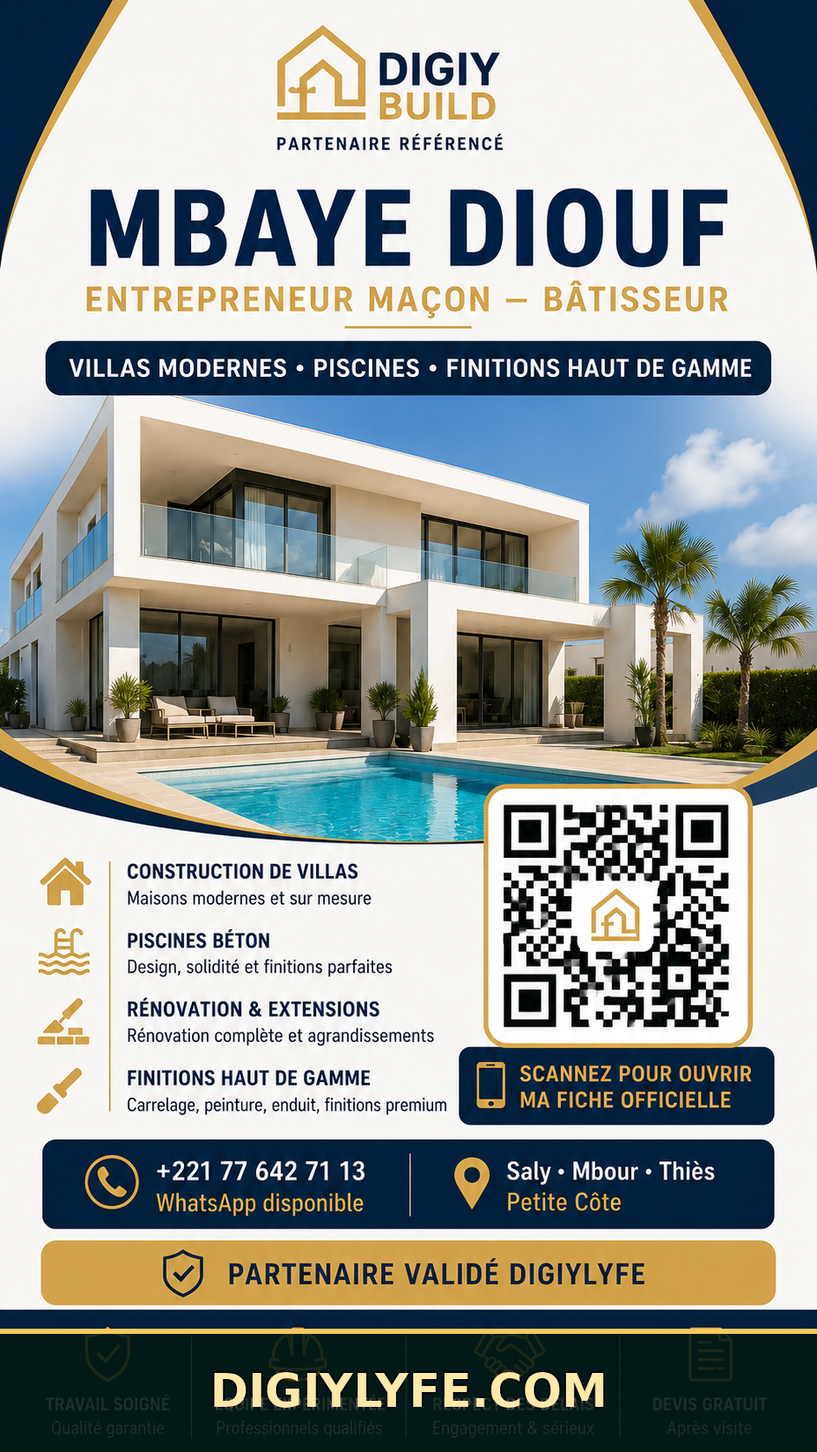
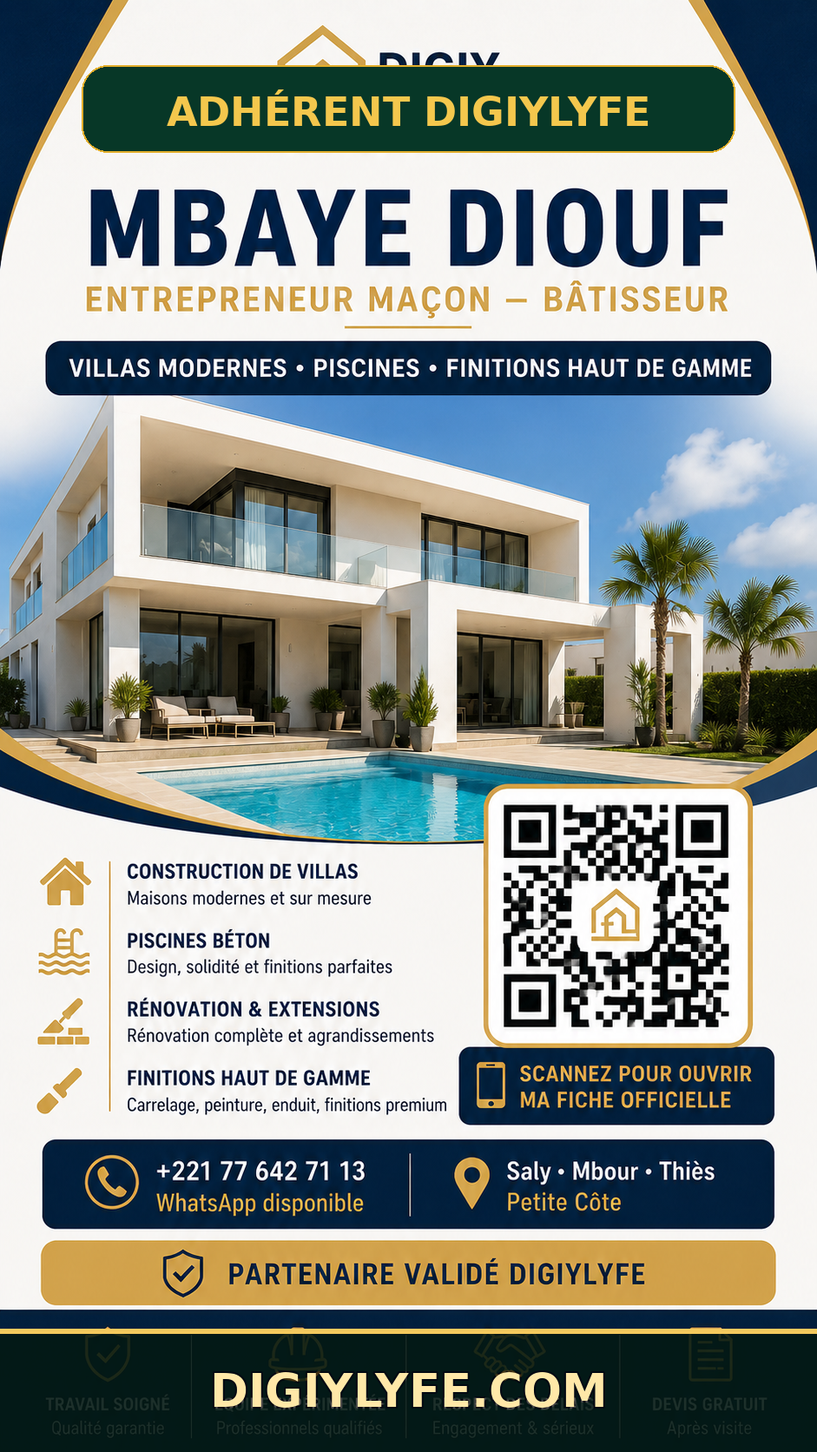
Mbaye : carte et index en statut adhérent
* Ajouter correction temporaire Mbaye adhérent

* Mbaye : adhérent DIGIYLYFE et wording neutre

* Ajouter nettoyage final wording Mbaye

* Mbaye : finir le wording adhérent multilingue

* Nettoyer workflow temporaire Mbaye

* Nettoyer workflow temporaire Mbaye

---------

Changed region(s): [[0.0925, 0.0311, 0.9245, 0.1244]]

diff --git a/index.html b/index.html
@@ -19,19 +19,19 @@
 <div class="wrap">
 <header class="topbar"><div class="brand"><div class="logo"><img alt="Logo DIGIYLYFE" src="https://digiylyfe.net/wp-content/uploads/2026/03/digiylyfe_logo_qr.jpeg"></div><div><div class="kicker" id="kicker"></div><div class="title">Mbaye Diouf</div><div class="sub" id="sub"></div></div></div><div class="lang"><button data-lang="fr">FR</button><button data-lang="en">EN</button><button data-lang="es">ES</button><button data-lang="de">DE</button><button data-lang="it">IT</button><button data-lang="nl">NL</button><button data-lang="ar">AR</button></div></header>
 <a class="mother" href="https://digiylyfe.com/" target="_blank" rel="noopener"><span id="motherLabel"></span><strong>DIGIYLYFE.COM</strong><em id="motherText"></em></a>
-<section class="hero"><main class="panel"><div class="poster"><img id="poster" alt="Mbaye Diouf" src="./carte-visite.png?v=20260714"></div><div class="body"><h1>Mbaye Diouf</h1><p class="lead" id="lead"></p><div class="chips" id="chips"></div><div class="official" id="official"></div><div class="text" id="mainText"></div><div class="serviceBox"><h2 id="servicesTitle"></h2><ul id="services"></ul></div></div></main><aside class="panel side"><article class="qrCard"><div id="qrKicker"></div><img class="qrImg" id="qrImg" alt="QR Mbaye Diouf"><div class="qrTitle" id="qrTitle"></div><div class="qrText" id="qrText"></div><div class="qrLink" id="qrLink"></div></article><div class="mini"><div class="miniLabel" id="tradeLabel"></div><div class="miniValue" id="tradeValue"></div><div class="miniHint" id="tradeHint"></div></div><div class="mini"><div class="miniLabel" id="zoneLabel"></div><div class="miniValue">Saly · Mbour · Thiès · Petite Côte</div><div class="miniHint" id="zoneHint"></div></div><div class="mini"><div class="miniLabel" id="priceLabel"></div><div class="miniValue" id="priceValue"></div><div class="miniHint" id="priceHint"></div></div><div class="actions"><a class="btn primary" id="waBtn"></a><a class="btn secondary" href="tel:+221776427113" id="callBtn"></a><a class="btn secondary" id="requestBtn"></a><button class="btn secondary" id="copyBtn"></button><button class="btn green" id="shareBtn"></button></div></aside></section>
+<section class="hero"><main class="panel"><div class="poster"><img id="poster" alt="Mbaye Diouf" src="./carte-visite.png?v=20260814-adherent"></div><div class="body"><h1>Mbaye Diouf</h1><p class="lead" id="lead"></p><div class="chips" id="chips"></div><div class="official" id="official"></div><div class="text" id="mainText"></div><div class="serviceBox"><h2 id="servicesTitle"></h2><ul id="services"></ul></div></div></main><aside class="panel side"><article class="qrCard"><div id="qrKicker"></div><img class="qrImg" id="qrImg" alt="QR Mbaye Diouf"><div class="qrTitle" id="qrTitle"></div><div class="qrText" id="qrText"></div><div class="qrLink" id="qrLink"></div></article><div class="mini"><div class="miniLabel" id="tradeLabel"></div><div class="miniValue" id="tradeValue"></div><div class="miniHint" id="tradeHint"></div></div><div class="mini"><div class="miniLabel" id="zoneLabel"></div><div class="miniValue">Saly · Mbour · Thiès · Petite Côte</div><div class="miniHint" id="zoneHint"></div></div><div class="mini"><div class="miniLabel" id="priceLabel"></div><div class="miniValue" id="priceValue"></div><div class="miniHint" id="priceHint"></div></div><div class="actions"><a class="btn primary" id="waBtn"></a><a class="btn secondary" href="tel:+221776427113" id="callBtn"></a><a class="btn secondary" id="requestBtn"></a><button class="btn secondary" id="copyBtn"></button><button class="btn green" id="shareBtn"></button></div></aside></section>
 <div class="foot" id="foot"></div></div>
 <nav class="bottom"><div class="bottomIn"><a id="galleryLink"><span>←</span><span id="galleryText"></span></a><a class="active" href="#"><span>📲</span><span>QR</span></a><a id="bottomWa"><span>💬</span><span>WhatsApp</span></a><button id="bottomShare"><span>📤</span><span id="shareBottom"></span></button></div></nav><div class="toast" id="toast"></div>
 <script>
 (function(){'use strict';const PHONE='221776427113',BASE='https://mbaye-macon.digiylyfe.com/';
 const P={
-fr:{kicker:'Je propose mes services',sub:'Entrepreneur maçon · Saly · Mbour · Thiès',motherLabel:'Marque mère officielle',motherText:'La route digitale entre le client et le professionnel local.',lead:'Bâtisseur · villas modernes · piscines béton · rénovation · finitions haut de gamme',chips:['Contact direct','QR officiel DIGIY','0% commission','Maçon','Bâtisseur','Villa','Piscine','Rénovation','Finitions','Petite Côte'],official:'<strong>QR officiel DIGIYLYFE · Fiche pro terrain</strong><br>Contact direct, demande directe, devis direct : le client parle au professionnel sans intermédiaire.',main:'Construction de villas, piscines béton, finitions haut de gamme, rénovation et extensions. Le client voit le métier, la zone et le contact direct.',servicesTitle:'Services utiles',services:['Construction de villas et petits chantiers de bâtiment.','Piscines béton, extensions, rénovation et aménagements.','Finitions : carrelage, peinture, menuiserie et détails.','Devis après visite selon plans, surfaces, matériaux et délais.'],qrKicker:'📲 QR officiel DIGIYLYFE',qrTitle:'Scanne la fiche officielle',qrText:'Ce QR ouvre directement la fiche DIGIY BUILD de Mbaye Diouf : lecture, partage, contact direct et visibilité terrain.',tradeLabel:'Métier',tradeValue:'Entrepreneur maçon',tradeHint:'Construction, rénovation, extensions, piscines béton et finitions.',zoneLabel:'Zone',zoneHint:'Intervention selon disponibilité, visite et besoin du client.',priceLabel:'Prix',priceValue:'Sur devis',priceHint:'Le prix dépend de la visite, des plans, des surfaces et des matériaux.',waBtn:'💬 WhatsApp direct',call:'📞 Appeler',request:'📄 Décrire mon besoin',copy:'📋 Copier la fiche',share:'📤 Partager',gallery:'Galerie',copied:'Lien copié',prompt:'Copie le lien :',shareText:'Entrepreneur maçon · fiche officielle DIGIYLYFE · contact direct · 0% commission.',wa:'Bonjour Mbaye, je viens de votre fiche officielle DIGIYLYFE pour un projet de construction ou de rénovation.',foot:'DIGIY BUILD • fiche officielle • QR DIGIY • métier clair • contact direct • devis direct • 0% commission'},
-en:{kicker:'I offer my services',sub:'Masonry contractor · Saly · Mbour · Thiès',motherLabel:'Official mother brand',motherText:'The digital route between the client and the local professional.',lead:'Builder · modern villas · concrete pools · renovation · premium finishes',chips:['Direct contact','Official DIGIY QR','0% commission','Masonry','Builder','Villa','Pool','Renovation','Finishes','Petite Côte'],official:'<strong>Official DIGIYLYFE QR · Field pro profile</strong><br>Direct contact, direct request and direct quote: the client speaks to the professional without an intermediary.',main:'Villa construction, concrete pools, premium finishes, renovation and extensions. The client sees the trade, area and direct contact.',servicesTitle:'Useful services',services:['Villa construction and small building projects.','Concrete pools, extensions, renovation and improvements.','Finishes: tiling, painting, carpentry and details.','Quote after a visit according to plans, surfaces, materials and deadlines.'],qrKicker:'📲 Official DIGIYLYFE QR',qrTitle:'Scan the official profile',qrText:'This QR directly opens Mbaye Diouf’s DIGIY BUILD profile: reading, sharing, direct contact and field visibility.',tradeLabel:'Trade',tradeValue:'Masonry contractor',tradeHint:'Construction, renovation, extensions, concrete pools and finishes.',zoneLabel:'Area',zoneHint:'Work according to availability, visit and client need.',priceLabel:'Price',priceValue:'Quote-based',priceHint:'The price depends on the visit, plans, surfaces and materials.',waBtn:'💬 Direct WhatsApp',call:'📞 Call',request:'📄 Describe my need',copy:'📋 Copy profile',share:'📤 Share',gallery:'Gallery',copied:'Link copied',prompt:'Copy this link:',shareText:'Masonry contractor · official DIGIYLYFE profile · direct contact · 0% commission.',wa:'Hello Mbaye, I am coming from your official DIGIYLYFE profile for a construction or renovation project.',foot:'DIGIY BUILD • official profile • DIGIY QR • clear trade • direct contact • direct quote • 0% commission'},
-es:{kicker:'Ofrezco mis servicios',sub:'Contratista de albañilería · Saly · Mbour · Thiès',motherLabel:'Marca matriz oficial',motherText:'La ruta digital entre el cliente y el profesional local.',lead:'Constructor · villas modernas · piscinas de hormigón · renovación · acabados de calidad',chips:['Contacto directo','QR oficial DIGIY','0% comisión','Albañilería','Constructor','Villa','Piscina','Renovación','Acabados','Petite Côte'],official:'<strong>QR oficial DIGIYLYFE · Ficha profesional</strong><br>Contacto, solicitud y presupuesto directos: el cliente habla con el profesional sin intermediario.',main:'Construcción de villas, piscinas de hormigón, acabados, renovación y ampliaciones. El cliente ve el oficio, la zona y el contacto directo.',servicesTitle:'Servicios útiles',services:['Construcción de villas y pequeñas obras.','Piscinas de hormigón, ampliaciones, renovación y mejoras.','Acabados: azulejos, pintura, carpintería y detalles.','Presupuesto después de visita según planos, superficies, materiales y plazos.'],qrKicker:'📲 QR oficial DIGIYLYFE',qrTitle:'Escanea la ficha oficial',qrText:'Este QR abre directamente la ficha DIGIY BUILD de Mbaye Diouf: lectura, difusión, contacto directo y visibilidad.',tradeLabel:'Oficio',tradeValue:'Contratista de albañilería',tradeHint:'Construcción, renovación, ampliaciones, piscinas de hormigón y acabados.',zoneLabel:'Zona',zoneHint:'Intervención según disponibilidad, visita y necesidad.',priceLabel:'Precio',priceValue:'Presupuesto personalizado',priceHint:'El precio depende de la visita, planos, superficies y materiales.',waBtn:'💬 WhatsApp directo',call:'📞 Llamar',request:'📄 Describir mi necesidad',copy:'📋 Copiar ficha',share:'📤 Compartir',gallery:'Galería',copied:'Enlace copiado',prompt:'Copia este enlace:',shareText:'Contratista de albañilería · ficha oficial DIGIYLYFE · contacto directo · 0% comisión.',wa:'Hola Mbaye, vengo de su ficha oficial DIGIYLYFE por un proyecto de construcción o renovación.',foot:'DIGIY BUILD • ficha oficial • QR DIGIY • oficio claro • contacto directo • presupuesto directo • 0% comisión'},
-de:{kicker:'Ich biete meine Dienste an',sub:'Maurerunternehmer · Saly · Mbour · Thiès',motherLabel:'Offizielle Dachmarke',motherText:'Der digitale Weg zwischen Kunde und lokalem Fachmann.',lead:'Bauunternehmer · moderne Villen · Betonpools · Renovierung · hochwertige Ausführung',chips:['Direkter Kontakt','Offizieller DIGIY-QR','0% Provision','Maurer','Bauunternehmer','Villa','Pool','Renovierung','Ausbau','Petite Côte'],official:'<strong>Offizieller DIGIYLYFE-QR · Fachprofil</strong><br>Direkter Kontakt, direkte Anfrage und direktes Angebot: der Kunde spricht ohne Vermittler mit dem Fachmann.',main:'Bau von Villen, Betonpools, hochwertiger Ausbau, Renovierung und Erweiterungen. Der Kunde sieht Handwerk, Gebiet und direkten Kontakt.',servicesTitle:'Nützliche Leistungen',services:['Villenbau und kleinere Bauprojekte.','Betonpools, Erweiterungen, Renovierung und Ausbau.','Ausführung: Fliesen, Malerarbeiten, Holzarbeiten und Details.','Angebot nach Besichtigung gemäß Plänen, Flächen, Materialien und Fristen.'],qrKicker:'📲 Offizieller DIGIYLYFE-QR',qrTitle:'Offizielles Profil scannen',qrText:'Dieser QR öffnet direkt Mbaye Dioufs DIGIY-BUILD-Profil: Lesen, Teilen, direkter Kontakt und Sichtbarkeit.',tradeLabel:'Handwerk',tradeValue:'Maurerunternehmer',tradeHint:'Bau, Renovierung, Erweiterungen, Betonpools und Ausbau.',zoneLabel:'Gebiet',zoneHint:'Einsatz nach Verfügbarkeit, Besichtigung und Kundenbedarf.',priceLabel:'Preis',priceValue:'Nach Angebot',priceHint:'Der Preis hängt von Besichtigung, Plänen, Flächen und Materialien ab.',waBtn:'💬 Direktes WhatsApp',call:'📞 Anrufen',request:'📄 Bedarf beschreiben',copy:'📋 Profil kopieren',share:'📤 Teilen',gallery:'Galerie',copied:'Link kopiert',prompt:'Diesen Link kopieren:',shareText:'Maurerunternehmer · offizielles DIGIYLYFE-Profil · direkter Kontakt · 0% Provision.',wa:'Hallo Mbaye, ich komme über Ihr offizielles DIGIYLYFE-Profil wegen eines Bau- oder Renovierungsprojekts.',foot:'DIGIY BUILD • offizielles Profil • DIGIY-QR • klares Handwerk • direkter Kontakt • direktes Angebot • 0% Provision'},
-it:{kicker:'Propongo i miei servizi',sub:'Impresa edile · Saly · Mbour · Thiès',motherLabel:'Marchio madre ufficiale',motherText:'La via digitale tra il cliente e il professionista locale.',lead:'Costruttore · ville moderne · piscine in cemento · ristrutturazione · finiture pregiate',chips:['Contatto diretto','QR ufficiale DIGIY','0% commissione','Muratura','Costruttore','Villa','Piscina','Ristrutturazione','Finiture','Petite Côte'],official:'<strong>QR ufficiale DIGIYLYFE · Scheda professionale</strong><br>Contatto, richiesta e preventivo diretti: il cliente parla con il professionista senza intermediari.',main:'Costruzione di ville, piscine in cemento, finiture pregiate, ristrutturazioni e ampliamenti. Il cliente vede mestiere, zona e contatto diretto.',servicesTitle:'Servizi utili',services:['Costruzione di ville e piccoli cantieri.','Piscine in cemento, ampliamenti, ristrutturazione e sistemazioni.','Finiture: piastrelle, pittura, falegnameria e dettagli.','Preventivo dopo sopralluogo secondo progetti, superfici, materiali e tempi.'],qrKicker:'📲 QR ufficiale DIGIYLYFE',qrTitle:'Scansiona la scheda ufficiale',qrText:'Questo QR apre direttamente la scheda DIGIY BUILD di Mbaye Diouf: lettura, condivisione, contatto e visibilità.',tradeLabel:'Mestiere',tradeValue:'Impresa edile',tradeHint:'Costruzione, ristrutturazione, ampliamenti, piscine in cemento e finiture.',zoneLabel:'Zona',zoneHint:'Intervento secondo disponibilità, sopralluogo e bisogno.',priceLabel:'Prezzo',priceValue:'Su preventivo',priceHint:'Il prezzo dipende da sopralluogo, progetti, superfici e materiali.',waBtn:'💬 WhatsApp diretto',call:'📞 Chiama',request:'📄 Descrivi il bisogno',copy:'📋 Copia scheda',share:'📤 Condividi',gallery:'Galleria',copied:'Link copiato',prompt:'Copia questo link:',shareText:'Impresa edile · scheda ufficiale DIGIYLYFE · contatto diretto · 0% commissione.',wa:'Ciao Mbaye, arrivo dalla sua scheda ufficiale DIGIYLYFE per un progetto di costruzione o ristrutturazione.',foot:'DIGIY BUILD • scheda ufficiale • QR DIGIY • mestiere chiaro • contatto diretto • preventivo diretto • 0% commissione'},
-nl:{kicker:'Ik bied mijn diensten aan',sub:'Aannemer metselwerk · Saly · Mbour · Thiès',motherLabel:'Officieel moedermerk',motherText:'De digitale route tussen klant en lokale professional.',lead:'Bouwer · moderne villa’s · betonnen zwembaden · renovatie · hoogwaardige afwerking',chips:['Direct contact','Officiële DIGIY-QR','0% commissie','Metselwerk','Bouwer','Villa','Zwembad','Renovatie','Afwerking','Petite Côte'],official:'<strong>Officiële DIGIYLYFE-QR · Vakprofiel</strong><br>Direct contact, directe aanvraag en directe offerte: de klant spreekt zonder tussenpersoon met de vakman.',main:'Bouw van villa’s, betonnen zwembaden, hoogwaardige afwerking, renovatie en uitbreidingen. De klant ziet vak, zone en direct contact.',servicesTitle:'Nuttige diensten',services:['Bouw van villa’s en kleinere bouwprojecten.','Betonnen zwembaden, uitbreidingen, renovatie en inrichting.','Afwerking: tegels, schilderwerk, timmerwerk en details.','Offerte na bezoek volgens plannen, oppervlakken, materialen en termijnen.'],qrKicker:'📲 Officiële DIGIYLYFE-QR',qrTitle:'Scan het officiële profiel',qrText:'Deze QR opent direct het DIGIY BUILD-profiel van Mbaye Diouf: lezen, delen, direct contact en zichtbaarheid.',tradeLabel:'Vak',tradeValue:'Aannemer metselwerk',tradeHint:'Bouw, renovatie, uitbreidingen, betonnen zwembaden en afwerking.',zoneLabel:'Zone',zoneHint:'Werk volgens beschikbaarheid, bezoek en klantbehoefte.',priceLabel:'Prijs',priceValue:'Op offerte',priceHint:'De prijs hangt af van bezoek, plannen, oppervlakken en materialen.',waBtn:'💬 Direct WhatsApp',call:'📞 Bellen',request:'📄 Mijn behoefte beschrijven',copy:'📋 Profiel kopiëren',share:'📤 Delen',gallery:'Galerij',copied:'Link gekopieerd',prompt:'Kopieer deze link:',shareText:'Aannemer metselwerk · officieel DIGIYLYFE-profiel · direct contact · 0% commissie.',wa:'Hallo Mbaye, ik kom via uw officiële DIGIYLYFE-profiel voor een bouw- of renovatieproject.',foot:'DIGIY BUILD • officieel profiel • DIGIY-QR • duidelijk vak • direct contact • directe offerte • 0% commissie'},
-ar:{kicker:'أقدم خدماتي',sub:'مقاول بناء · سالي · مبور · تييس',motherLabel:'العلامة الأم الرسمية',motherText:'المسار الرقمي بين العميل والمهني المحلي.',lead:'بنّاء · فلل حديثة · مسابح خرسانية · تجديد · تشطيبات عالية الجودة',chips:['تواصل مباشر','رمز DIGIY رسمي','عمولة صفر','بناء','مقاول','فيلا','مسبح','تجديد','تشطيبات','الساحل الصغير'],official:'<strong>رمز QR رسمي من DIGIYLYFE · ملف مهني</strong><br>تواصل وطلب وعرض سعر مباشر: يتحدث العميل مع المهني بلا وسيط.',main:'بناء الفلل والمسابح الخرسانية والتشطيبات الراقية والتجديد والتوسعات. يرى العميل المهنة والمنطقة والتواصل المباشر.',servicesTitle:'خدمات مفيدة',services:['بناء الفلل ومشاريع البناء الصغيرة.','مسابح خرسانية وتوسعات وتجديد وتهيئة.','تشطيبات: بلاط ودهان ونجارة وتفاصيل الورشة.','عرض سعر بعد المعاينة حسب المخططات والمساحات والمواد والآجال.'],qrKicker:'📲 رمز QR رسمي من DIGIYLYFE',qrTitle:'امسح الملف الرسمي',qrText:'يفتح هذا الرمز ملف Mbaye Diouf على DIGIY BUILD مباشرة: قراءة ومشاركة وتواصل وظهور ميداني.',tradeLabel:'المهنة',tradeValue:'مقاول بناء',tradeHint:'بناء وتجديد وتوسعات ومسابح خرسانية وتشطيبات.',zoneLabel:'المنطقة',zoneHint:'التدخل حسب التوفر والمعاينة وحاجة العميل.',priceLabel:'السعر',priceValue:'حسب عرض السعر',priceHint:'يعتمد السعر على المعاينة والمخططات والمساحات والمواد.',waBtn:'💬 واتساب مباشر',call:'📞 اتصال',request:'📄 وصف حاجتي',copy:'📋 نسخ الملف',share:'📤 مشاركة',gallery:'المعرض',copied:'تم نسخ الرابط',prompt:'انسخ هذا الرابط:',shareText:'مقاول بناء · ملف DIGIYLYFE رسمي · تواصل مباشر · عمولة صفر.',wa:'مرحباً Mbaye، وصلت من ملفك الرسمي على DIGIYLYFE ولدي مشروع بناء أو تجديد.',foot:'DIGIY BUILD • ملف رسمي • رمز DIGIY • مهنة واضحة • تواصل مباشر • عرض سعر مباشر • عمولة صفر'}
+fr:{kicker:'Je propose mes services',sub:'Entrepreneur maçon · Saly · Mbour · Thiès',motherLabel:'ADHÉRENT DIGIYLYFE',motherText:'La route digitale entre le client et le professionnel local.',lead:'Bâtisseur · villas modernes · piscines béton · rénovation · finitions haut de gamme',chips:['Contact direct','QR DIGIY','0% commission','Maçon','Bâtisseur','Villa','Piscine','Rénovation','Finitions','Petite Côte'],official:'<strong>ADHÉRENT DIGIYLYFE · Fiche pro terrain</strong><br>Contact direct, demande directe, devis direct : le client parle au professionnel sans intermédiaire.',main:'Construction de villas, piscines béton, finitions haut de gamme, rénovation et extensions. Le client voit le métier, la zone et le contact direct.',servicesTitle:'Services utiles',services:['Construction de villas et petits chantiers de bâtiment.','Piscines béton, extensions, rénovation et aménagements.','Finitions : carrelage, peinture, menuiserie et détails.','Devis après visite selon plans, surfaces, matériaux et délais.'],qrKicker:'📲 QR DIGIYLYFE',qrTitle:'Scanne la fiche DIGIYLYFE',qrText:'Ce QR ouvre directement la fiche DIGIY BUILD de Mbaye Diouf : lecture, partage, contact direct et visibilité terrain.',tradeLabel:'Métier',tradeValue:'Entrepreneur maçon',tradeHint:'Construction, rénovation, extensions, piscines béton et finitions.',zoneLabel:'Zone',zoneHint:'Intervention selon disponibilité, visite et besoin du client.',priceLabel:'Prix',priceValue:'Sur devis',priceHint:'Le prix dépend de la visite, des plans, des surfaces et des matériaux.',waBtn:'💬 WhatsApp direct',call:'📞 Appeler',request:'📄 Décrire mon besoin',copy:'📋 Copier la fiche',share:'📤 Partager',gallery:'Galerie',copied:'Lien copié',prompt:'Copie le lien :',shareText:'Entrepreneur maçon · fiche DIGIYLYFE · contact direct · 0% commission.',wa:'Bonjour Mbaye, je viens de votre fiche DIGIYLYFE pour un projet de construction ou de rénovation.',foot:'DIGIY BUILD • fiche DIGIYLYFE • QR DIGIY • métier clair • contact direct • devis direct • 0% commission'},
+en:{kicker:'I offer my services',sub:'Masonry contractor · Saly · Mbour · Thiès',motherLabel:'DIGIYLYFE MEMBER',motherText:'The digital route between the client and the local professional.',lead:'Builder · modern villas · concrete pools · renovation · premium finishes',chips:['Direct contact','DIGIY QR','0% commission','Masonry','Builder','Villa','Pool','Renovation','Finishes','Petite Côte'],official:'<strong>DIGIYLYFE MEMBER · Field pro profile</strong><br>Direct contact, direct request and direct quote: the client speaks to the professional without an intermediary.',main:'Villa construction, concrete pools, premium finishes, renovation and extensions. The client sees the trade, area and direct contact.',servicesTitle:'Useful services',services:['Villa construction and small building projects.','Concrete pools, extensions, renovation and improvements.','Finishes: tiling, painting, carpentry and details.','Quote after a visit according to plans, surfaces, materials and deadlines.'],qrKicker:'📲 DIGIYLYFE QR',qrTitle:'Scan the DIGIYLYFE profile',qrText:'This QR directly opens Mbaye Diouf’s DIGIY BUILD profile: reading, sharing, direct contact and field visibility.',tradeLabel:'Trade',tradeValue:'Masonry contractor',tradeHint:'Construction, renovation, extensions, concrete pools and finishes.',zoneLabel:'Area',zoneHint:'Work according to availability, visit and client need.',priceLabel:'Price',priceValue:'Quote-based',priceHint:'The price depends on the visit, plans, surfaces and materials.',waBtn:'💬 Direct WhatsApp',call:'📞 Call',request:'📄 Describe my need',copy:'📋 Copy profile',share:'📤 Share',gallery:'Gallery',copied:'Link copied',prompt:'Copy this link:',shareText:'Masonry contractor · DIGIYLYFE profile · direct contact · 0% commission.',wa:'Hello Mbaye, I am coming from your DIGIYLYFE profile for a construction or renovation project.',foot:'DIGIY BUILD • DIGIYLYFE profile • DIGIY QR • clear trade • direct contact • direct quote • 0% commission'},
+es:{kicker:'Ofrezco mis servicios',sub:'Contratista de albañilería · Saly · Mbour · Thiès',motherLabel:'MIEMBRO DIGIYLYFE',motherText:'La ruta digital entre el cliente y el profesional local.',lead:'Constructor · villas modernas · piscinas de hormigón · renovación · acabados de calidad',chips:['Contacto directo','QR DIGIY','0% comisión','Albañilería','Constructor','Villa','Piscina','Renovación','Acabados','Petite Côte'],official:'<strong>MIEMBRO DIGIYLYFE · Ficha profesional</strong><br>Contacto, solicitud y presupuesto directos: el cliente habla con el profesional sin intermediario.',main:'Construcción de villas, piscinas de hormigón, acabados, renovación y ampliaciones. El cliente ve el oficio, la zona y el contacto directo.',servicesTitle:'Servicios útiles',services:['Construcción de villas y pequeñas obras.','Piscinas de hormigón, ampliaciones, renovación y mejoras.','Acabados: azulejos, pintura, carpintería y detalles.','Presupuesto después de visita según planos, superficies, materiales y plazos.'],qrKicker:'📲 QR DIGIYLYFE',qrTitle:'Escanea la ficha DIGIYLYFE',qrText:'Este QR abre directamente la ficha DIGIY BUILD de Mbaye Diouf: lectura, difusión, contacto directo y visibilidad.',tradeLabel:'Oficio',tradeValue:'Contratista de albañilería',tradeHint:'Construcción, renovación, ampliaciones, piscinas de hormigón y acabados.',zoneLabel:'Zona',zoneHint:'Intervención según disponibilidad, visita y necesidad.',priceLabel:'Precio',priceValue:'Presupuesto personalizado',priceHint:'El precio depende de la visita, planos, superficies y materiales.',waBtn:'💬 WhatsApp directo',call:'📞 Llamar',request:'📄 Describir mi necesidad',copy:'📋 Copiar ficha',share:'📤 Compartir',gallery:'Galería',copied:'Enlace copiado',prompt:'Copia este enlace:',shareText:'Contratista de albañilería · ficha DIGIYLYFE · contacto directo · 0% comisión.',wa:'Hola Mbaye, vengo de su ficha DIGIYLYFE por un proyecto de construcción o renovación.',foot:'DIGIY BUILD • ficha DIGIYLYFE • QR DIGIY • oficio claro • contacto directo • presupuesto directo • 0% comisión'},
+de:{kicker:'Ich biete meine Dienste an',sub:'Maurerunternehmer · Saly · Mbour · Thiès',motherLabel:'DIGIYLYFE-MITGLIED',motherText:'Der digitale Weg zwischen Kunde und lokalem Fachmann.',lead:'Bauunternehmer · moderne Villen · Betonpools · Renovierung · hochwertige Ausführung',chips:['Direkter Kontakt','DIGIY-QR','0% Provision','Maurer','Bauunternehmer','Villa','Pool','Renovierung','Ausbau','Petite Côte'],official:'<strong>DIGIYLYFE-MITGLIED · Fachprofil</strong><br>Direkter Kontakt, direkte Anfrage und direktes Angebot: der Kunde spricht ohne Vermittler mit dem Fachmann.',main:'Bau von Villen, Betonpools, hochwertiger Ausbau, Renovierung und Erweiterungen. Der Kunde sieht Handwerk, Gebiet und direkten Kontakt.',servicesTitle:'Nützliche Leistungen',services:['Villenbau und kleinere Bauprojekte.','Betonpools, Erweiterungen, Renovierung und Ausbau.','Ausführung: Fliesen, Malerarbeiten, Holzarbeiten und Details.','Angebot nach Besichtigung gemäß Plänen, Flächen, Materialien und Fristen.'],qrKicker:'📲 DIGIYLYFE-QR',qrTitle:'DIGIYLYFE-Profil scannen',qrText:'Dieser QR öffnet direkt Mbaye Dioufs DIGIY-BUILD-Profil: Lesen, Teilen, direkter Kontakt und Sichtbarkeit.',tradeLabel:'Handwerk',tradeValue:'Maurerunternehmer',tradeHint:'Bau, Renovierung, Erweiterungen, Betonpools und Ausbau.',zoneLabel:'Gebiet',zoneHint:'Einsatz nach Verfügbarkeit, Besichtigung und Kundenbedarf.',priceLabel:'Preis',priceValue:'Nach Angebot',priceHint:'Der Preis hängt von Besichtigung, Plänen, Flächen und Materialien ab.',waBtn:'💬 Direktes WhatsApp',call:'📞 Anrufen',request:'📄 Bedarf beschreiben',copy:'📋 Profil kopieren',share:'📤 Teilen',gallery:'Galerie',copied:'Link kopiert',prompt:'Diesen Link kopieren:',shareText:'Maurerunternehmer · DIGIYLYFE-Profil · direkter Kontakt · 0% Provision.',wa:'Hallo Mbaye, ich komme über Ihr DIGIYLYFE-Profil wegen eines Bau- oder Renovierungsprojekts.',foot:'DIGIY BUILD • DIGIYLYFE-Profil • DIGIY-QR • klares Handwerk • direkter Kontakt • direktes Angebot • 0% Provision'},
+it:{kicker:'Propongo i miei servizi',sub:'Impresa edile · Saly · Mbour · Thiès',motherLabel:'ADERENTE DIGIYLYFE',motherText:'La via digitale tra il cliente e il professionista locale.',lead:'Costruttore · ville moderne · piscine in cemento · ristrutturazione · finiture pregiate',chips:['Contatto diretto','QR DIGIY','0% commissione','Muratura','Costruttore','Villa','Piscina','Ristrutturazione','Finiture','Petite Côte'],official:'<strong>ADERENTE DIGIYLYFE · Scheda professionale</strong><br>Contatto, richiesta e preventivo diretti: il cliente parla con il professionista senza intermediari.',main:'Costruzione di ville, piscine in cemento, finiture pregiate, ristrutturazioni e ampliamenti. Il cliente vede mestiere, zona e contatto diretto.',servicesTitle:'Servizi utili',services:['Costruzione di ville e piccoli cantieri.','Piscine in cemento, ampliamenti, ristrutturazione e sistemazioni.','Finiture: piastrelle, pittura, falegnameria e dettagli.','Preventivo dopo sopralluogo secondo progetti, superfici, materiali e tempi.'],qrKicker:'📲 QR DIGIYLYFE',qrTitle:'Scansiona la scheda DIGIYLYFE',qrText:'Questo QR apre direttamente la scheda DIGIY BUILD di Mbaye Diouf: lettura, condivisione, contatto e visibilità.',tradeLabel:'Mestiere',tradeValue:'Impresa edile',tradeHint:'Costruzione, ristrutturazione, ampliamenti, piscine in cemento e finiture.',zoneLabel:'Zona',zoneHint:'Intervento secondo disponibilità, sopralluogo e bisogno.',priceLabel:'Prezzo',priceValue:'Su preventivo',priceHint:'Il prezzo dipende da sopralluogo, progetti, superfici e materiali.',waBtn:'💬 WhatsApp diretto',call:'📞 Chiama',request:'📄 Descrivi il bisogno',copy:'📋 Copia scheda',share:'📤 Condividi',gallery:'Galleria',copied:'Link copiato',prompt:'Copia questo link:',shareText:'Impresa edile · scheda DIGIYLYFE · contatto diretto · 0% commissione.',wa:'Ciao Mbaye, arrivo dalla sua scheda DIGIYLYFE per un progetto di costruzione o ristrutturazione.',foot:'DIGIY BUILD • scheda DIGIYLYFE • QR DIGIY • mestiere chiaro • contatto diretto • preventivo diretto • 0% commissione'},
+nl:{kicker:'Ik bied mijn diensten aan',sub:'Aannemer metselwerk · Saly · Mbour · Thiès',motherLabel:'DIGIYLYFE-LID',motherText:'De digitale route tussen klant en lokale professional.',lead:'Bouwer · moderne villa’s · betonnen zwembaden · renovatie · hoogwaardige afwerking',chips:['Direct contact','DIGIY-QR','0% commissie','Metselwerk','Bouwer','Villa','Zwembad','Renovatie','Afwerking','Petite Côte'],official:'<strong>DIGIYLYFE-LID · Vakprofiel</strong><br>Direct contact, directe aanvraag en directe offerte: de klant spreekt zonder tussenpersoon met de vakman.',main:'Bouw van villa’s, betonnen zwembaden, hoogwaardige afwerking, renovatie en uitbreidingen. De klant ziet vak, zone en direct contact.',servicesTitle:'Nuttige diensten',services:['Bouw van villa’s en kleinere bouwprojecten.','Betonnen zwembaden, uitbreidingen, renovatie en inrichting.','Afwerking: tegels, schilderwerk, timmerwerk en details.','Offerte na bezoek volgens plannen, oppervlakken, materialen en termijnen.'],qrKicker:'📲 DIGIYLYFE-QR',qrTitle:'Scan het DIGIYLYFE-profiel',qrText:'Deze QR opent direct het DIGIY BUILD-profiel van Mbaye Diouf: lezen, delen, direct contact en zichtbaarheid.',tradeLabel:'Vak',tradeValue:'Aannemer metselwerk',tradeHint:'Bouw, renovatie, uitbreidingen, betonnen zwembaden en afwerking.',zoneLabel:'Zone',zoneHint:'Werk volgens beschikbaarheid, bezoek en klantbehoefte.',priceLabel:'Prijs',priceValue:'Op offerte',priceHint:'De prijs hangt af van bezoek, plannen, oppervlakken en materialen.',waBtn:'💬 Direct WhatsApp',call:'📞 Bellen',request:'📄 Mijn behoefte beschrijven',copy:'📋 Profiel kopiëren',share:'📤 Delen',gallery:'Galerij',copied:'Link gekopieerd',prompt:'Kopieer deze link:',shareText:'Aannemer metselwerk · DIGIYLYFE-profiel · direct contact · 0% commissie.',wa:'Hallo Mbaye, ik kom via uw DIGIYLYFE-profiel voor een bouw- of renovatieproject.',foot:'DIGIY BUILD • DIGIYLYFE-profiel • DIGIY-QR • duidelijk vak • direct contact • directe offerte • 0% commissie'},
+ar:{kicker:'أقدم خدماتي',sub:'مقاول بناء · سالي · مبور · تييس',motherLabel:'عضو DIGIYLYFE',motherText:'المسار الرقمي بين العميل والمهني المحلي.',lead:'بنّاء · فلل حديثة · مسابح خرسانية · تجديد · تشطيبات عالية الجودة',chips:['تواصل مباشر','رمز DIGIY','عمولة صفر','بناء','مقاول','فيلا','مسبح','تجديد','تشطيبات','الساحل الصغير'],official:'<strong>عضو DIGIYLYFE · ملف مهني</strong><br>تواصل وطلب وعرض سعر مباشر: يتحدث العميل مع المهني بلا وسيط.',main:'بناء الفلل والمسابح الخرسانية والتشطيبات الراقية والتجديد والتوسعات. يرى العميل المهنة والمنطقة والتواصل المباشر.',servicesTitle:'خدمات مفيدة',services:['بناء الفلل ومشاريع البناء الصغيرة.','مسابح خرسانية وتوسعات وتجديد وتهيئة.','تشطيبات: بلاط ودهان ونجارة وتفاصيل الورشة.','عرض سعر بعد المعاينة حسب المخططات والمساحات والمواد والآجال.'],qrKicker:'📲 رمز QR من DIGIYLYFE',qrTitle:'امسح ملف DIGIYLYFE',qrText:'يفتح هذا الرمز ملف Mbaye Diouf على DIGIY BUILD مباشرة: قراءة ومشاركة وتواصل وظهور ميداني.',tradeLabel:'المهنة',tradeValue:'مقاول بناء',tradeHint:'بناء وتجديد وتوسعات ومسابح خرسانية وتشطيبات.',zoneLabel:'المنطقة',zoneHint:'التدخل حسب التوفر والمعاينة وحاجة العميل.',priceLabel:'السعر',priceValue:'حسب عرض السعر',priceHint:'يعتمد السعر على المعاينة والمخططات والمساحات والمواد.',waBtn:'💬 واتساب مباشر',call:'📞 اتصال',request:'📄 وصف حاجتي',copy:'📋 نسخ الملف',share:'📤 مشاركة',gallery:'المعرض',copied:'تم نسخ الرابط',prompt:'انسخ هذا الرابط:',shareText:'مقاول بناء · ملف DIGIYLYFE · تواصل مباشر · عمولة صفر.',wa:'مرحباً Mbaye، وصلت من ملفك على DIGIYLYFE ولدي مشروع بناء أو تجديد.',foot:'DIGIY BUILD • عضو DIGIYLYFE • رمز DIGIY • مهنة واضحة • تواصل مباشر • عرض سعر مباشر • عمولة صفر'}
 };
 function pick(){let q=new URLSearchParams(location.search).get('lang');try{if(!P[q])q=localStorage.getItem('digiy-lang')}catch(e){}if(!P[q])q=(navigator.language||'fr').slice(0,2).toLowerCase();return P[q]?q:'fr'}let lang=pick();
 function profile(){const u=new URL(BASE);u.searchParams.set('lang',lang);return u.toString()}function wa(){return 'https://wa.me/'+PHONE+'?text='+encodeURIComponent(P[lang].wa)}function request(){const u=new URL('https://build.digiylyfe.com/request.html');u.searchParams.set('slug','partenaires-mbaye');u.searchParams.set('nom','Mbaye Diouf');u.searchParams.set('metier',P[lang].tradeValue);u.searchParams.set('ville','Saly');u.searchParams.set('lang',lang);return u.toString()}
